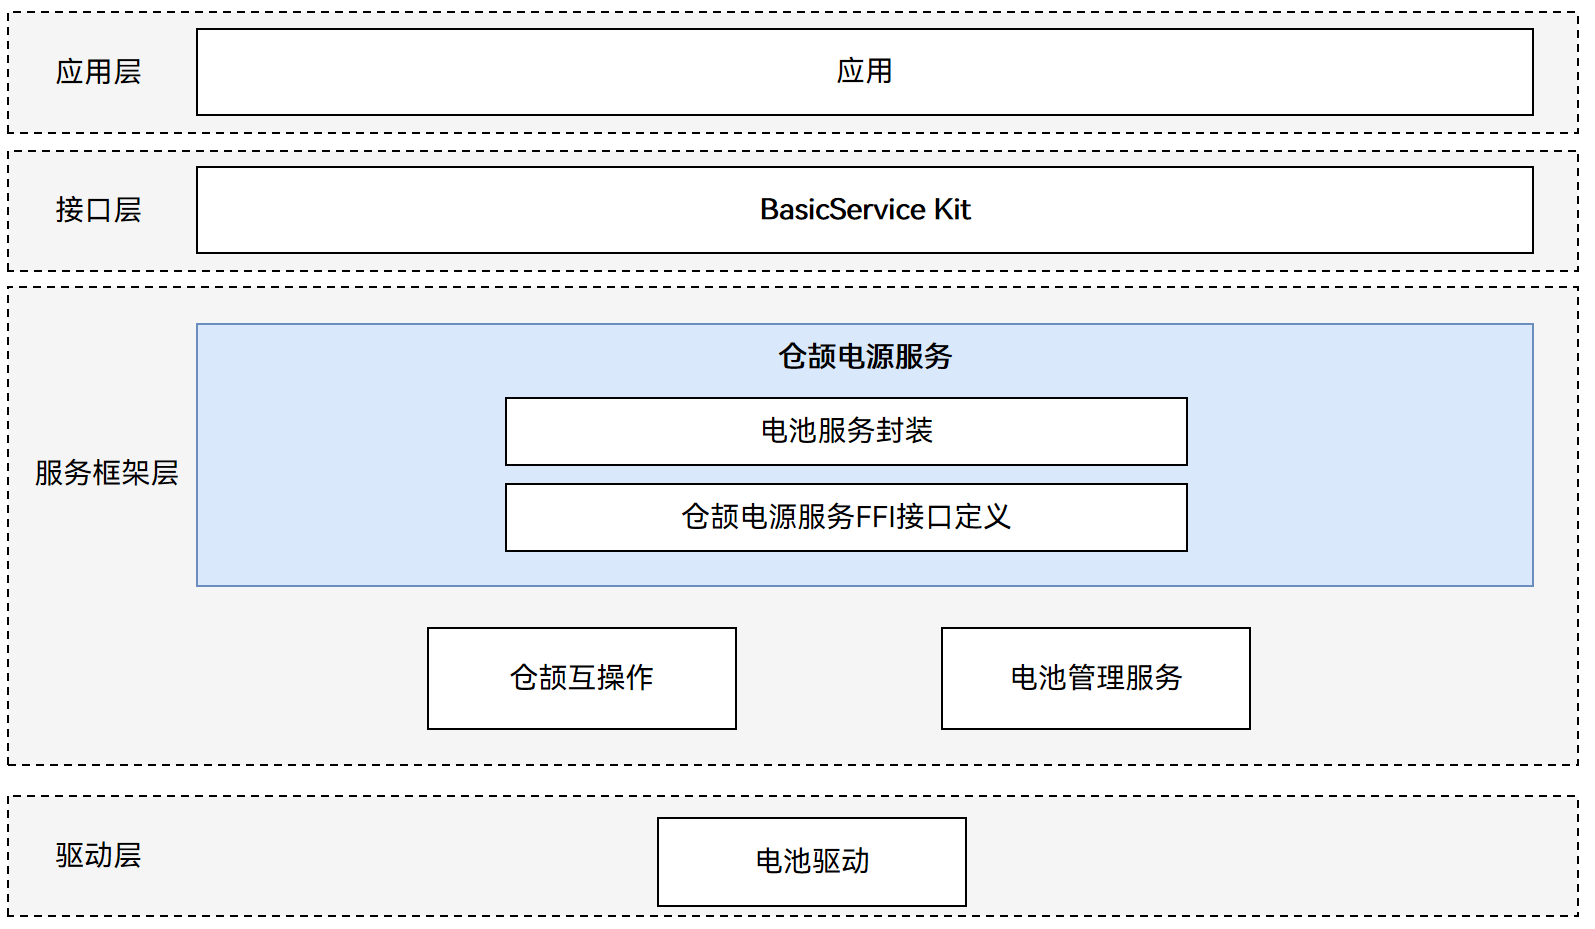
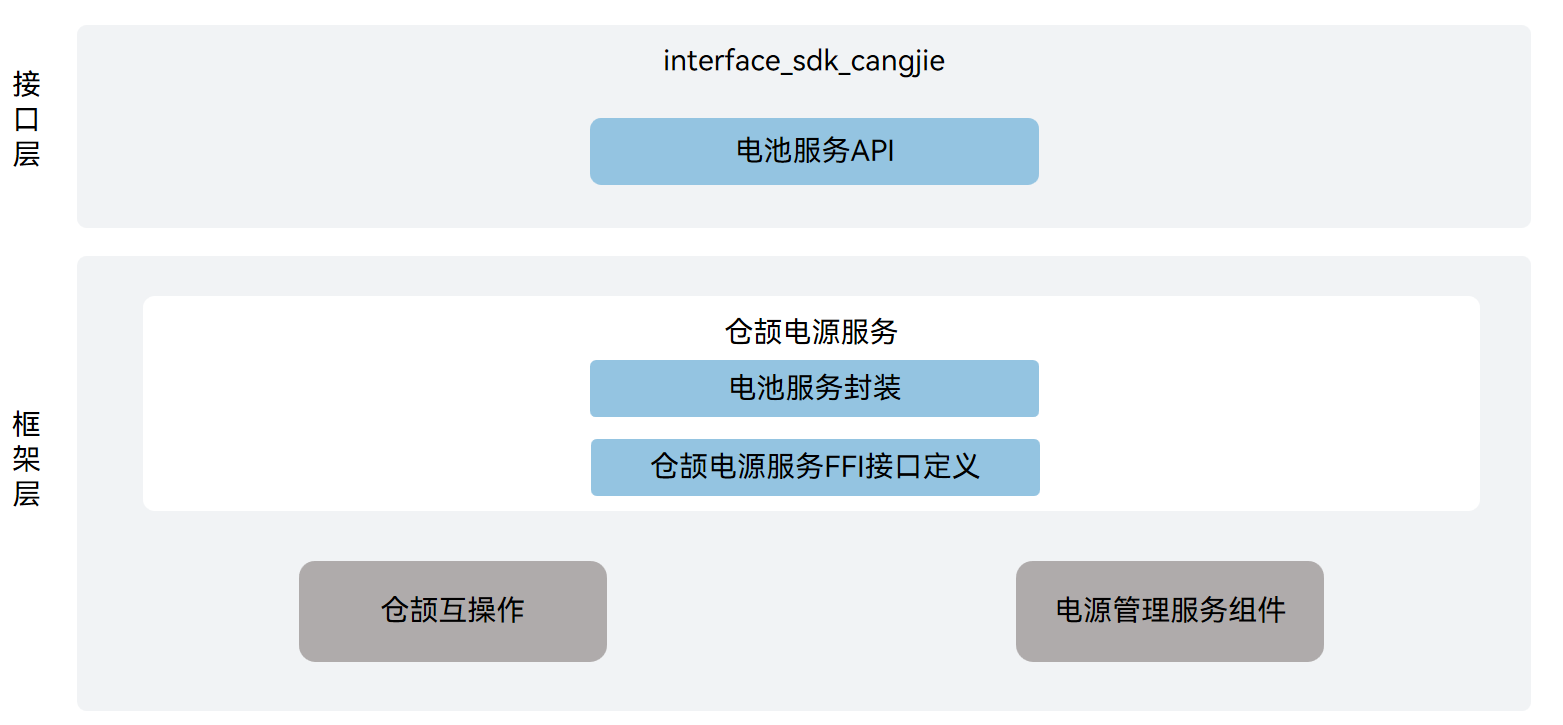
fix the internal review comments

diff --git a/README_zh.md b/README_zh.md
@@ -1,8 +1,8 @@
-# 电源服务仓颉接口
+# 电源服务仓颉封装
 
 ## 简介
 
-电源服务仓颉接口是在 OpenHarmony 上基于电源管理子系统能力之上封装的仓颉API。提供了电池状态和充放电状态查询的能力。当前开放的电源服务仓颉接口仅支持standard设备。
+电源服务仓颉接口是在 OpenHarmony 上面向开发者进行应用开发使用的电源管理能力的仓颉API。提供了电池状态和充放电状态查询的能力。当前开放的电源服务仓颉接口仅支持standard设备。
 
 **图 1**  电源管理仓颉架构图
 
@@ -10,9 +10,18 @@
 
 如架构图所示：
 
-- 电池服务封装：提供电量信息查询、充电器类型枚举、电池健康状态枚举、附加信息查询枚举的方法。
+接口层说明：
+
+- 电池服务API：基于电池服务封装面向开发者开放的仓颉公开接口声明。
+
+框架层说明：
+
+- 电池服务封装：提供电量信息查询、充电器类型枚举、电池健康状态枚举、附加信息查询枚举的方法。该封装层是基于电源管理服务对电池服务功能进行的仓颉封装实现。
 - 仓颉电源服务 FFI 封装定义：负责定义被Cangjie语言调用的C语言互操作接口，用于实现仓颉电源管理服务能力。
-- 电源管理服务：调用底层电源驱动，提供电源管理服务基本功能的C语言接口。
+
+仓颉电源服务依赖部件引入说明：
+
+- 电源管理服务：调用底层电源驱动，提供可被电源服务仓颉接口调用的电源管理服务基本功能C语言接口。
 - 仓颉互操作：封装C语言互操作公共接口，并提供仓颉标签类实现用于对仓颉API进行标注，以及提供抛向用户的BusinessException异常类定义。
 
 ## 目录
@@ -33,6 +42,10 @@ base/powermgr/powermgr_cangjie_wrapper
 提供了以下电源服务功能：
 - 电池服务：支持充放电、电池和充电状态的信息显示
 
+电源服务相关使用示例请参见[电池信息开发指导](https://gitcode.com/openharmony-sig/arkcompiler_cangjie_ark_interop/blob/master/doc/Dev_Guide/source_zh_cn/basic-services/cj-battery-info-development-guide.md)。
+
+## 约束
+
 与ArkTS提供的API能力相比，暂不支持以下功能：
 - 重启服务：系统重启和下电
 - 系统电源管理服务：系统电源状态管理和休眠运行锁管理
@@ -43,8 +56,6 @@ base/powermgr/powermgr_cangjie_wrapper
 - 耗电统计： 主要包括软件耗电和硬件耗电统计，以及单个应用的耗电统计
 - 轻设备电池服务
 - 轻设备电源管理服务
-
-电源服务相关API使用示例请参见[电池管理API](https://gitcode.com/openharmony-sig/arkcompiler_cangjie_ark_interop/blob/master/doc/API_Reference/source_zh_cn/apis/BasicServicesKit/cj-apis-battery_info.md)。
 
 ## 参与贡献
 

diff --git a/README.md b/README.md
@@ -9,10 +9,14 @@ The powermgr_cangjie_wrapper is a Cangjie API encapsulated on OpenHarmony based 
 ![](figures/powermgr_cangjie_wrapper_architecture_en.png)
 
 As shown in the architecture diagram:
+
 - Battery Service Wrapper: Provides methods for battery level information query, charger type enumeration, battery health status enumeration, and additional information query enumeration.
 - Cangjie Power Service FFI Encapsulation Definition: Responsible for defining the C-language interoperation interface with Cangjie, which is used to implement the capabilities of Cangjie's power management service.
-- Battery Management Service: Calls the underlying power driver to provide C language interfaces for basic power management service functions.
-- Cangjie ark interop: Encapsulates public interfaces for C language interoperation, and provides Cangjie tag class implementation for annotating Cangjie APIs, as well as providing BusinessException exception class definitions thrown to users.
+
+Dependencies:
+
+- Power Management Service: Calls the underlying power driver to provide C language interfaces for basic power management service functions that can be called by the power service Cangjie interface.
+- Cangjie Interop: Encapsulates public interfaces for C language interoperation, and provides Cangjie tag class implementation for annotating Cangjie APIs, as well as providing BusinessException exception class definitions thrown to users.
 
 ## Directory Structure
 
